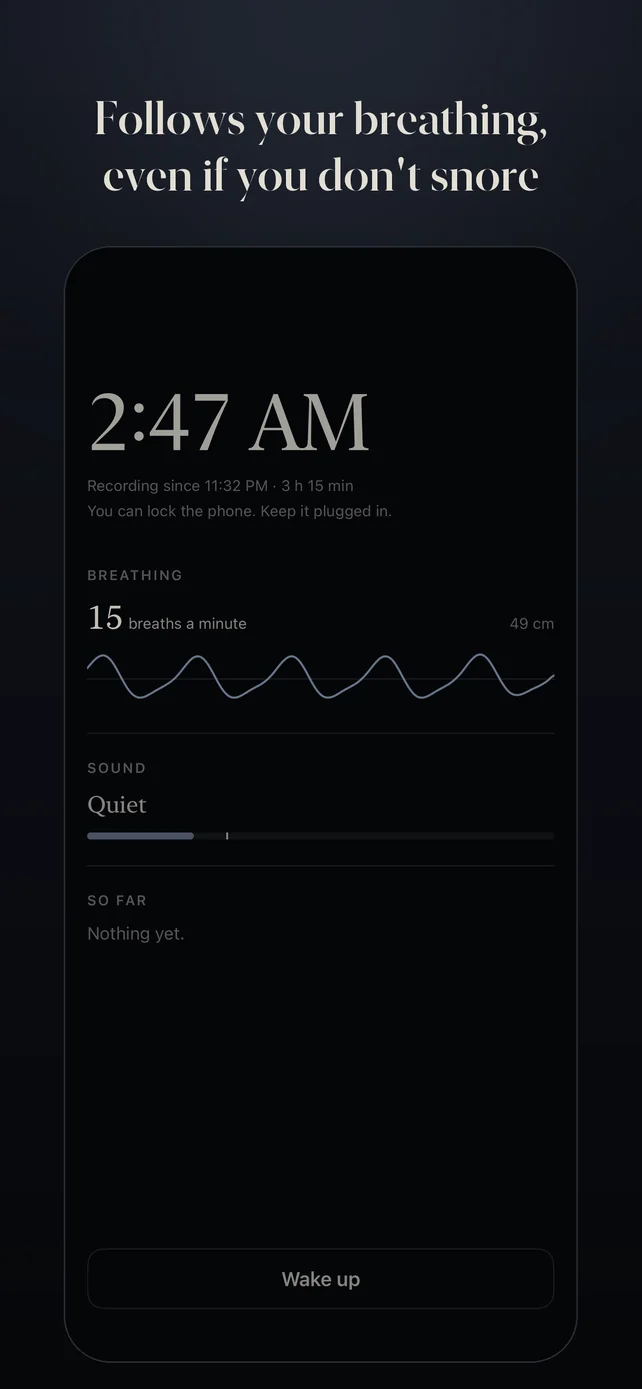
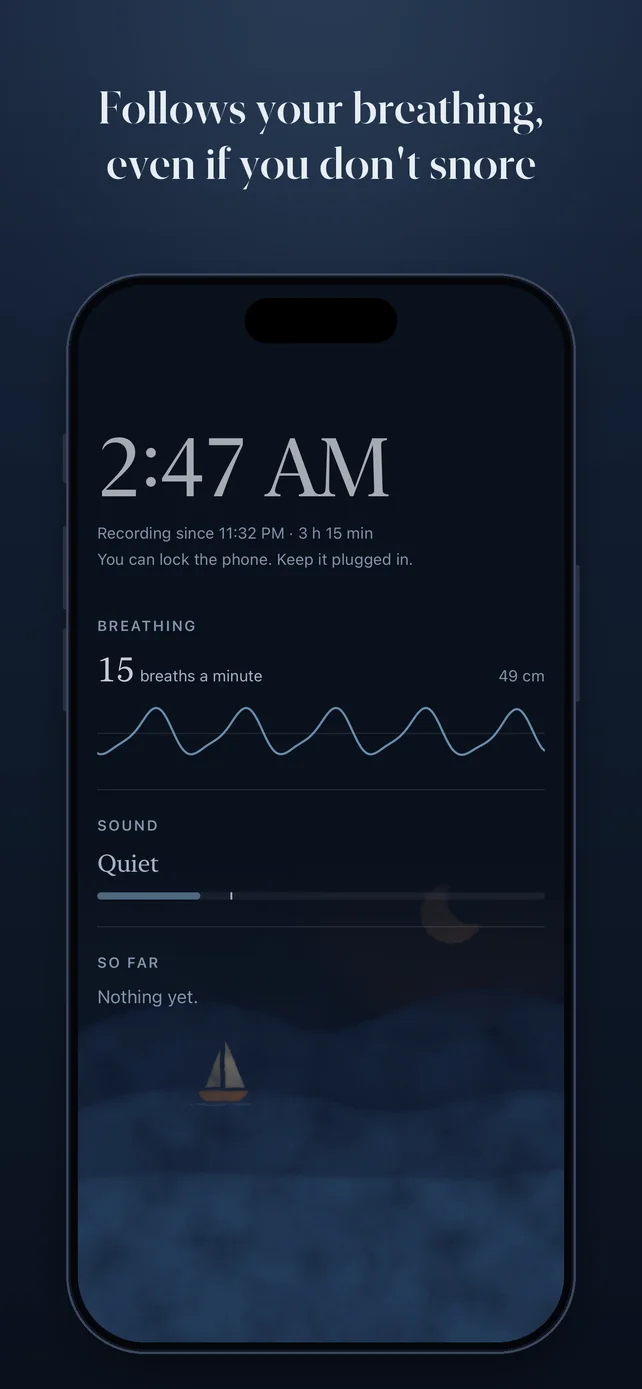
Sleep Sonar: new screenshots and iPhone Duo screens in the watercolor design; Sleep Sonar Plus replaces the tips
The seven slides and the four Duo screens come from the paper-night redesign. The animated
versions of the old slides are removed until new ones are made. The page, FAQ and privacy
policy now describe Sleep Sonar Plus: free for the last seven nights, a one-time purchase
opens every night.

diff --git a/sleepsonar/index.html b/sleepsonar/index.html
@@ -46,12 +46,14 @@
    ],
    "featureList": [
     "How much you snore",
+    "When you slept",
     "Hear it back",
     "Breathing by sonar",
     "Restless or asleep",
     "Apple Health, if you want",
     "Breathing pauses",
     "A placement check",
+    "Free for a week of nights",
     "A bedside clock on iPhone Duo"
    ],
    "offers": {
@@ -77,6 +79,14 @@
      "acceptedAnswer": {
       "@type": "Answer",
       "text": "<p>Yes. Put the phone on the nightstand and start the night. Sleep Sonar listens all night and keeps a short clip of each snore, each bit of sleep talk and each cough, with the time it happened. In the morning you see how long you snored and can play the clips. Sleep Sonar is coming soon to the App Store.<\/p>"
+     }
+    },
+    {
+     "@type": "Question",
+     "name": "Is Sleep Sonar free?",
+     "acceptedAnswer": {
+      "@type": "Answer",
+      "text": "<p>Yes. Sleep Sonar is free and keeps your last seven nights open. Sleep Sonar Plus, a one-time purchase, opens every night you record, with its report and its clips. Nights older than a week stay on your iPhone until you delete them, so Plus also opens the ones you recorded before buying it. There is no subscription.<\/p>"
      }
     },
     {
@@ -132,7 +142,7 @@
      "name": "Does Sleep Sonar upload anything?",
      "acceptedAnswer": {
       "@type": "Answer",
-      "text": "<p>No. Its only connection is the App Store, which shows the prices of the optional tips. The sonar, the sound recognition and every report run on your iPhone, and deleting the app deletes everything it saved. <a href=\"https://cistrondev.github.io/sleepsonar/privacy/\">Privacy policy<\/a>.<\/p>"
+      "text": "<p>No. Its only connection is the App Store, for the optional Sleep Sonar Plus purchase. The sonar, the sound recognition and every report run on your iPhone, and deleting the app deletes everything it saved. <a href=\"https://cistrondev.github.io/sleepsonar/privacy/\">Privacy policy<\/a>.<\/p>"
      }
     }
    ]
@@ -175,13 +185,13 @@
 
     <section class="gallery" data-gallery aria-label="Screenshots">
       <ul class="gallery-track" tabindex="0">
-          <li><img src="../assets/img/sleepsonar/01.webp?v=9b604f78" width="642" height="1389" alt="A night&#x27;s report: 76 minutes of snoring, 3 sleep-talk moments, 15 breaths a minute, and the night&#x27;s timeline." loading="eager" decoding="async"></li>
-          <li><img src="../assets/img/sleepsonar/02.webp?v=707923cd" width="642" height="1389" alt="The Privacy page: on the phone, no cloud, no analytics, no account." loading="eager" decoding="async"></li>
-          <li><picture><source srcset="../assets/img/sleepsonar/03-anim.webp?v=afa946dd" type="image/webp" media="(prefers-reduced-motion: no-preference)"><img src="../assets/img/sleepsonar/03.webp?v=8b021be2" width="642" height="1389" alt="The night screen at 2:47 AM: 15 breaths a minute at 49 cm, and the breathing wave." loading="eager" decoding="async"></picture></li>
-          <li><img src="../assets/img/sleepsonar/04.webp?v=588dde37" width="642" height="1389" alt="The list of sounds, each with a play button: sleep talk, snoring, a cough, a door slam." loading="lazy" decoding="async"></li>
-          <li><picture><source srcset="../assets/img/sleepsonar/05-anim.webp?v=31158b8a" type="image/webp" media="(prefers-reduced-motion: no-preference)"><img src="../assets/img/sleepsonar/05.webp?v=421a437d" width="642" height="1389" alt="The night&#x27;s timeline while dragging: 2:54 AM, 15 breaths a minute, snoring for 26 minutes." loading="lazy" decoding="async"></picture></li>
-          <li><picture><source srcset="../assets/img/sleepsonar/06-anim.webp?v=29401059" type="image/webp" media="(prefers-reduced-motion: no-preference)"><img src="../assets/img/sleepsonar/06.webp?v=393d24e1" width="642" height="1389" alt="The placement check: found you at 49 cm, 15 breaths a minute, good placement." loading="lazy" decoding="async"></picture></li>
-          <li><picture><source srcset="../assets/img/sleepsonar/07-anim.webp?v=b470b9f3" type="image/webp" media="(prefers-reduced-motion: no-preference)"><img src="../assets/img/sleepsonar/07.webp?v=86292ffa" width="642" height="1389" alt="How the sonar works: the phone sends a sweep toward your chest and reads the echo." loading="lazy" decoding="async"></picture></li>
+          <li><img src="../assets/img/sleepsonar/01.webp?v=785ec351" width="642" height="1389" alt="A night&#x27;s report under a painted sunrise: 31 minutes of snoring, 3 sleep-talk moments, 15 breaths a minute, 7 h 18 min asleep." loading="eager" decoding="async"></li>
+          <li><img src="../assets/img/sleepsonar/02.webp?v=6543f391" width="642" height="1389" alt="The home screen under a painted moon and sailboat, with last night: fell asleep at 11:26 PM, woke up at 6:44 AM, 7 h 18 min asleep." loading="eager" decoding="async"></li>
+          <li><img src="../assets/img/sleepsonar/03.webp?v=d97ed3d8" width="642" height="1389" alt="The night screen at 2:47 AM: 15 breaths a minute at 49 cm, and the breathing wave." loading="eager" decoding="async"></li>
+          <li><img src="../assets/img/sleepsonar/04.webp?v=b92ec40d" width="642" height="1389" alt="The list of sounds, each with a play button: sleep talk, snoring, a cough, a door slam." loading="lazy" decoding="async"></li>
+          <li><img src="../assets/img/sleepsonar/05.webp?v=eca92d0f" width="642" height="1389" alt="The last seven nights: usually fell asleep at 11:30 PM and woke up at 6:12 AM, 6 h 52 min asleep and 22 minutes of snoring a night." loading="lazy" decoding="async"></li>
+          <li><img src="../assets/img/sleepsonar/06.webp?v=bcbcbdf3" width="642" height="1389" alt="The night&#x27;s timeline while dragging: 2:45 AM, 16 breaths a minute, snoring for 10 minutes." loading="lazy" decoding="async"></li>
+          <li><img src="../assets/img/sleepsonar/07.webp?v=012d13f3" width="642" height="1389" alt="The placement check: found you at 49 cm, 15 breaths a minute, good placement." loading="lazy" decoding="async"></li>
       </ul>
       <div class="gallery-controls">
         <div class="gallery-paddles">
@@ -195,22 +205,22 @@
         <ul class="duo-track">
           <li>
             <figure>
-              <div class="duo-tent"><div class="duo-screen duo-screen-tent"><picture><source srcset="../assets/img/sleepsonar/duo/tent-anim.webp?v=462e425a" type="image/webp" media="(prefers-reduced-motion: no-preference)"><img src="../assets/img/sleepsonar/duo/tent-light.webp?v=258f6e82" data-light="../assets/img/sleepsonar/duo/tent-light.webp?v=258f6e82" data-dark="../assets/img/sleepsonar/duo/tent-light.webp?v=258f6e82" width="1017" height="699" alt="Sleep Sonar on an iPhone Duo standing in a tent on the nightstand: a large dim clock reading 2:47 AM on the cover screen, with &#x27;15 breaths a minute · Quiet&#x27; under it." loading="lazy" decoding="async"></picture><span class="duo-camera duo-camera-tent"></span></div></div>
+              <div class="duo-tent"><div class="duo-screen duo-screen-tent"><img src="../assets/img/sleepsonar/duo/tent-light.webp?v=0d926e04" data-light="../assets/img/sleepsonar/duo/tent-light.webp?v=0d926e04" data-dark="../assets/img/sleepsonar/duo/tent-light.webp?v=0d926e04" width="1017" height="699" alt="Sleep Sonar on an iPhone Duo standing in a tent on the nightstand: a large dim clock reading 2:47 AM on the cover screen, with &#x27;15 breaths a minute · Quiet&#x27; under it." loading="lazy" decoding="async"><span class="duo-camera duo-camera-tent"></span></div></div>
               <figcaption><strong>Standing</strong> Folded into a tent, the cover screen shows a large, dim clock with your breathing rate under it. Tap the clock to dim it further.</figcaption>
             </figure>
           </li>
           <li>
             <figure>
               <div class="duo-book">
-                <div class="duo-half duo-half-left"><picture><source srcset="../assets/img/sleepsonar/duo/book-anim.webp?v=1c3371b3" type="image/webp" media="(prefers-reduced-motion: no-preference)"><img src="../assets/img/sleepsonar/duo/book-light.webp?v=110b5145" data-light="../assets/img/sleepsonar/duo/book-light.webp?v=110b5145" data-dark="../assets/img/sleepsonar/duo/book-light.webp?v=110b5145" width="1427" height="1004" alt="Sleep Sonar on the half-open iPhone Duo: a large dim clock on the left page, the breathing wave and sound level on the right." loading="lazy" decoding="async"></picture></div>
-                <div class="duo-half duo-half-right"><picture><source srcset="../assets/img/sleepsonar/duo/book-anim.webp?v=1c3371b3" type="image/webp" media="(prefers-reduced-motion: no-preference)"><img src="../assets/img/sleepsonar/duo/book-light.webp?v=110b5145" data-light="../assets/img/sleepsonar/duo/book-light.webp?v=110b5145" data-dark="../assets/img/sleepsonar/duo/book-light.webp?v=110b5145" width="1427" height="1004" alt="" loading="lazy" decoding="async"></picture></div>
+                <div class="duo-half duo-half-left"><img src="../assets/img/sleepsonar/duo/book-light.webp?v=29fbc0e2" data-light="../assets/img/sleepsonar/duo/book-light.webp?v=29fbc0e2" data-dark="../assets/img/sleepsonar/duo/book-light.webp?v=29fbc0e2" width="1427" height="1004" alt="Sleep Sonar on the half-open iPhone Duo: a large dim clock on the left page, the breathing wave and sound level on the right." loading="lazy" decoding="async"></div>
+                <div class="duo-half duo-half-right"><img src="../assets/img/sleepsonar/duo/book-light.webp?v=29fbc0e2" data-light="../assets/img/sleepsonar/duo/book-light.webp?v=29fbc0e2" data-dark="../assets/img/sleepsonar/duo/book-light.webp?v=29fbc0e2" width="1427" height="1004" alt="" loading="lazy" decoding="async"></div>
               </div>
               <figcaption><strong>Half open</strong> A dim clock on one page, your breathing and the night&#x27;s sounds on the other.</figcaption>
             </figure>
           </li>
           <li>
             <figure>
-              <div class="duo-flat"><picture><source srcset="../assets/img/sleepsonar/duo/report-anim.webp?v=6c645f8a" type="image/webp" media="(prefers-reduced-motion: no-preference)"><img src="../assets/img/sleepsonar/duo/report-light.webp?v=7b7bfc9a" data-light="../assets/img/sleepsonar/duo/report-light.webp?v=7b7bfc9a" data-dark="../assets/img/sleepsonar/duo/report-light.webp?v=7b7bfc9a" width="1427" height="1004" alt="Sleep Sonar&#x27;s night report on the open iPhone Duo: 76 minutes of snoring, 3 sleep-talk moments, 15 breaths a minute, and the night&#x27;s timeline." loading="lazy" decoding="async"></picture></div>
+              <div class="duo-flat"><img src="../assets/img/sleepsonar/duo/report-light.webp?v=18737af6" data-light="../assets/img/sleepsonar/duo/report-light.webp?v=18737af6" data-dark="../assets/img/sleepsonar/duo/report-light.webp?v=18737af6" width="1427" height="1004" alt="Sleep Sonar&#x27;s night report on the open iPhone Duo, under a painted sunrise: 31 minutes of snoring, 3 sleep-talk moments, 15 breaths a minute, and the night&#x27;s timeline." loading="lazy" decoding="async"></div>
               <figcaption><strong>Open</strong> In the morning, the whole night on one page.</figcaption>
             </figure>
           </li>
@@ -232,12 +242,14 @@
     <section class="features">
       <ul>
         <li><h3>How much you snore</h3><p>Every night&#x27;s report shows the minutes of snoring, the number of sleep-talk moments and the sounds in between, on one timeline. Drag a finger across it to see any moment.</p></li>
+        <li><h3>When you slept</h3><p>The home screen shows when you fell asleep and woke up, how long you slept and how much you snored, with a summary of your last seven nights.</p></li>
         <li><h3>Hear it back</h3><p>Each snore, each bit of sleep talk and each cough is kept as a short clip, from three seconds before to two seconds after, so you can play it in the morning.</p></li>
         <li><h3>Breathing by sonar</h3><p>The phone plays a sweep between 18 and 20 kHz, above what adults can hear, and reads its echo from your chest. That gives your breathing rate all night, whether or not you snore.</p></li>
         <li><h3>Restless or asleep</h3><p>The sonar also sees when you turn over or get up, so the report shows your restless minutes and an estimate of how long you slept.</p></li>
         <li><h3>Apple Health, if you want</h3><p>Turn on Save to Apple Health and each night&#x27;s time in bed, sleep estimate and breathing rate go into the Health app on your iPhone. The app never reads anything from Health.</p></li>
         <li><h3>Breathing pauses</h3><p>Stretches of ten seconds or more without a breath while you lie still are listed for your information. Sleep Sonar is not a medical device and does not diagnose sleep apnea.</p></li>
         <li><h3>A placement check</h3><p>Lie down and breathe for 15 seconds: the app says whether it can find your breathing, how far away you are, and what to change if not.</p></li>
+        <li><h3>Free for a week of nights</h3><p>Sleep Sonar keeps your last seven nights for free. Sleep Sonar Plus, a one-time purchase, opens every night you record. There is no subscription.</p></li>
         <li><h3>A bedside clock on iPhone Duo</h3><p>Stand the phone half open on the nightstand. Folded into a tent, the cover screen becomes a large, dim clock with your breathing rate under it; set like a laptop, the clock takes the upright half and the night&#x27;s details the flat half. The screen stays on, the clock drifts a little each minute to spare the display, and a tap dims it further.</p></li>
       </ul>
     </section>
@@ -249,6 +261,12 @@
           <h3>Can my iPhone tell me whether I snore?</h3>
           <div class="faq-answer">
             <p>Yes. Put the phone on the nightstand and start the night. Sleep Sonar listens all night and keeps a short clip of each snore, each bit of sleep talk and each cough, with the time it happened. In the morning you see how long you snored and can play the clips. Sleep Sonar is coming soon to the App Store.</p>
+          </div>
+        </div>
+        <div class="faq-item">
+          <h3>Is Sleep Sonar free?</h3>
+          <div class="faq-answer">
+            <p>Yes. Sleep Sonar is free and keeps your last seven nights open. Sleep Sonar Plus, a one-time purchase, opens every night you record, with its report and its clips. Nights older than a week stay on your iPhone until you delete them, so Plus also opens the ones you recorded before buying it. There is no subscription.</p>
           </div>
         </div>
         <div class="faq-item">
@@ -290,7 +308,7 @@
         <div class="faq-item">
           <h3>Does Sleep Sonar upload anything?</h3>
           <div class="faq-answer">
-            <p>No. Its only connection is the App Store, which shows the prices of the optional tips. The sonar, the sound recognition and every report run on your iPhone, and deleting the app deletes everything it saved. <a href="../sleepsonar/privacy/">Privacy policy</a>.</p>
+            <p>No. Its only connection is the App Store, for the optional Sleep Sonar Plus purchase. The sonar, the sound recognition and every report run on your iPhone, and deleting the app deletes everything it saved. <a href="../sleepsonar/privacy/">Privacy policy</a>.</p>
           </div>
         </div>
       </div>

diff --git a/sleepsonar/privacy/index.html b/sleepsonar/privacy/index.html
@@ -4,7 +4,7 @@
   <meta charset="utf-8">
   <meta name="viewport" content="width=device-width, initial-scale=1">
   <title>Sleep Sonar Privacy Policy</title>
-  <meta name="description" content="How Sleep Sonar handles your information: Nothing about you. The App Store loads the prices of the optional tips.">
+  <meta name="description" content="How Sleep Sonar handles your information: Nothing about you. The App Store shows the price of Sleep Sonar Plus and handles the purchase.">
   <meta name="theme-color" content="#ffffff">
   <meta name="google-site-verification" content="0HO-cftcZWuRyvlFjb1OlFsgFgWXaGyS6AsLK70I34Q">
   <meta name="toolradar-verify" content="toolradar-verify-rOrqezKzteNECKs2sFwvBf">
@@ -13,7 +13,7 @@
   <link rel="icon" type="image/png" sizes="48x48" href="../../assets/favicon-48.png?v=98163ec7">
   <link rel="apple-touch-icon" href="../../assets/apple-touch-icon.png?v=97c86b02">
   <meta property="og:title" content="Sleep Sonar Privacy Policy">
-  <meta property="og:description" content="How Sleep Sonar handles your information: Nothing about you. The App Store loads the prices of the optional tips.">
+  <meta property="og:description" content="How Sleep Sonar handles your information: Nothing about you. The App Store shows the price of Sleep Sonar Plus and handles the purchase.">
   <link rel="stylesheet" href="../../assets/site.css?v=e253631e">
   <link rel="canonical" href="https://cistrondev.github.io/sleepsonar/privacy/">
   <meta property="og:url" content="https://cistrondev.github.io/sleepsonar/privacy/">
@@ -43,10 +43,10 @@
     <article class="policy">
       <p class="eyebrow"><a href="../">Sleep Sonar</a></p>
       <h1>Privacy Policy</h1>
-      <p class="policy-date">Last updated: 1 November 2026</p>
+      <p class="policy-date">Last updated: 5 November 2026</p>
 <p>Sleep Sonar ("the app") records your night on your iPhone: it listens for snoring and sleep talk, and follows your breathing with an inaudible sonar. This policy explains, in plain language, what the app does and does not do with your information.</p>
 <h2>The short version</h2>
-<p><strong>Sleep Sonar does not collect, store, transmit, or share any personal data.</strong> There are no accounts, no servers, no analytics, no advertising, and no tracking. Everything the app hears is analysed on your iPhone, and everything it keeps stays on your iPhone. The app's only connection is Apple's App Store, for the optional tips (see "Tips" below).</p>
+<p><strong>Sleep Sonar does not collect, store, transmit, or share any personal data.</strong> There are no accounts, no servers, no analytics, no advertising, and no tracking. Everything the app hears is analysed on your iPhone, and everything it keeps stays on your iPhone. The app's only connection is Apple's App Store, for the optional Sleep Sonar Plus purchase (see "Sleep Sonar Plus" below).</p>
 <h2>The microphone</h2>
 <p>With your permission, the app uses the microphone <strong>only while a night or a placement check is running</strong>. iOS shows the microphone indicator then. The microphone serves two purposes:</p>
 <ul><li>it listens for snoring, sleep talk, coughs and other sounds, which Apple's built-in sound classifier labels on the phone;</li><li>it hears the echo of the app's sonar: a sweep between 18 and 20 kHz, above what adults can hear, played from the phone's earpiece (the speaker above the screen). The echo from your chest shows your breathing and your movement. The sonar can be turned off.</li></ul>
@@ -63,8 +63,8 @@
 <p>The app never reads anything from Apple Health. Health data is never used for advertising or marketing, and is never shared with anyone.</p>
 <h2>Ratings and email</h2>
 <p>Now and then the app may ask you to rate it, using Apple's standard rating prompt; Apple handles any rating you give. <strong>Rate Sleep Sonar</strong> opens the App Store, and <strong>Email the developer</strong> opens a new message in your mail app with the app and iOS version filled in. The app itself sends nothing: an email reaches the developer only if you send it.</p>
-<h2>Tips</h2>
-<p>Sleep Sonar is free. It offers three optional tips, which are in-app purchases. A tip unlocks nothing. To show their prices and to take a payment, the app uses Apple's App Store. Apple processes the payment; the developer never receives your name, payment details or Apple Account. The app keeps no record of your tips. Apple's privacy policy covers the purchase itself.</p>
+<h2>Sleep Sonar Plus</h2>
+<p>Sleep Sonar is free and opens your last seven nights. Sleep Sonar Plus is an optional one-time in-app purchase that opens every night you record. To show its price, to take the payment and to restore it on another iPhone, the app uses Apple's App Store. Apple processes the payment; the developer never receives your name, payment details or Apple Account. The app keeps one setting on your iPhone that says whether Plus is unlocked. Apple's privacy policy covers the purchase itself.</p>
 <h2>Analytics, advertising, and tracking</h2>
 <p>The app contains <strong>no analytics, no advertising, and no tracking</strong> of any kind. It does not use the Advertising Identifier (IDFA), does not include any analytics or advertising SDKs, and does not follow you across other apps or websites.</p>
 <h2>Data retention and deletion</h2>

diff --git a/index.html b/index.html
@@ -260,7 +260,7 @@
           <a class="pill" href="sleepsonar/">Learn more</a>
           <span class="pill pill-soon">Coming soon</span>
         </p>
-        <div class="tile-shots"><img src="assets/img/sleepsonar/01.webp?v=9b604f78" width="642" height="1389" alt="" loading="lazy" decoding="async"><img src="assets/img/sleepsonar/02.webp?v=707923cd" width="642" height="1389" alt="" loading="lazy" decoding="async"><img src="assets/img/sleepsonar/03.webp?v=8b021be2" width="642" height="1389" alt="" loading="lazy" decoding="async"></div>
+        <div class="tile-shots"><img src="assets/img/sleepsonar/01.webp?v=785ec351" width="642" height="1389" alt="" loading="lazy" decoding="async"><img src="assets/img/sleepsonar/02.webp?v=6543f391" width="642" height="1389" alt="" loading="lazy" decoding="async"><img src="assets/img/sleepsonar/03.webp?v=d97ed3d8" width="642" height="1389" alt="" loading="lazy" decoding="async"></div>
       </article>
       </div>
     </section>

diff --git a/privacy/index.html b/privacy/index.html
@@ -135,7 +135,7 @@
             <img class="app-icon" src="../assets/img/sleepsonar/icon.png?v=61c62aef" width="256" height="256" alt="">
             <span class="policy-row-text">
               <strong>Sleep Sonar</strong>
-              <span>Nothing about you. The App Store loads the prices of the optional tips.</span>
+              <span>Nothing about you. The App Store shows the price of Sleep Sonar Plus and handles the purchase.</span>
             </span>
             <span class="policy-row-link">Privacy policy</span>
           </a>

diff --git a/build.py b/build.py
@@ -766,7 +766,7 @@ APPS = [
         "id": "",
         "live": False,
         "tagline": "Your snoring, sleep talk and breathing, recorded from the nightstand.",
-        "pricing": "Free",
+        "pricing": "Free · One-time unlock",
         "intro": (
             "Sleep Sonar records your night from the nightstand. It listens for snoring and sleep talk, and "
             "follows your breathing with a sonar you can't hear, even if you make no sound.",
@@ -777,6 +777,9 @@ APPS = [
             ("How much you snore",
              "Every night's report shows the minutes of snoring, the number of sleep-talk moments and the "
              "sounds in between, on one timeline. Drag a finger across it to see any moment."),
+            ("When you slept",
+             "The home screen shows when you fell asleep and woke up, how long you slept and how much you "
+             "snored, with a summary of your last seven nights."),
             ("Hear it back",
              "Each snore, each bit of sleep talk and each cough is kept as a short clip, from three seconds "
              "before to two seconds after, so you can play it in the morning."),
@@ -795,6 +798,9 @@ APPS = [
             ("A placement check",
              "Lie down and breathe for 15 seconds: the app says whether it can find your breathing, how far "
              "away you are, and what to change if not."),
+            ("Free for a week of nights",
+             "Sleep Sonar keeps your last seven nights for free. Sleep Sonar Plus, a one-time purchase, opens "
+             "every night you record. There is no subscription."),
             ("A bedside clock on iPhone Duo",
              "Stand the phone half open on the nightstand. Folded into a tent, the cover screen becomes a large, "
              "dim clock with your breathing rate under it; set like a laptop, the clock takes the upright half "
@@ -825,8 +831,8 @@ APPS = [
                  "sound level on the right."),
                 ("flat", "report", "Open",
                  "In the morning, the whole night on one page.",
-                 "Sleep Sonar's night report on the open iPhone Duo: 76 minutes of snoring, 3 sleep-talk moments, "
-                 "15 breaths a minute, and the night's timeline."),
+                 "Sleep Sonar's night report on the open iPhone Duo, under a painted sunrise: 31 minutes of "
+                 "snoring, 3 sleep-talk moments, 15 breaths a minute, and the night's timeline."),
             ],
         },
         "privacy_title": "Nothing leaves your iPhone.",
@@ -837,19 +843,22 @@ APPS = [
             "Apple Health gets a night only if you turn that on, and the app reads nothing from it.",
             "Delete a night to delete its clips; deleting the app deletes everything.",
         ],
-        "network": "Nothing about you. The App Store loads the prices of the optional tips.",
+        "network": "Nothing about you. The App Store shows the price of Sleep Sonar Plus and handles the purchase.",
         "note": "",
         "tile": [1, 2, 3],
         "languages": ["en"],
         "category": "HealthApplication",   # schema.org applicationCategory
         "shots": [
-            "A night's report: 76 minutes of snoring, 3 sleep-talk moments, 15 breaths a minute, and the night's timeline.",
-            "The Privacy page: on the phone, no cloud, no analytics, no account.",
+            "A night's report under a painted sunrise: 31 minutes of snoring, 3 sleep-talk moments, 15 breaths a "
+            "minute, 7 h 18 min asleep.",
+            "The home screen under a painted moon and sailboat, with last night: fell asleep at 11:26 PM, woke up at "
+            "6:44 AM, 7 h 18 min asleep.",
             "The night screen at 2:47 AM: 15 breaths a minute at 49 cm, and the breathing wave.",
             "The list of sounds, each with a play button: sleep talk, snoring, a cough, a door slam.",
-            "The night's timeline while dragging: 2:54 AM, 15 breaths a minute, snoring for 26 minutes.",
+            "The last seven nights: usually fell asleep at 11:30 PM and woke up at 6:12 AM, 6 h 52 min asleep and "
+            "22 minutes of snoring a night.",
+            "The night's timeline while dragging: 2:45 AM, 16 breaths a minute, snoring for 10 minutes.",
             "The placement check: found you at 49 cm, 15 breaths a minute, good placement.",
-            "How the sonar works: the phone sends a sweep toward your chest and reads the echo.",
         ],
     },
 ]

diff --git a/content/sleepsonar/en.py b/content/sleepsonar/en.py
@@ -2,7 +2,7 @@
 #
 # Same keys as content/atlas/en.py: the FAQ only (no guide yet; the app isn't released). English page copy stays in
 # APPS. Facts to keep true: microphone on only during a night or a placement check; only short clips are kept
-# (3 s before to 2 s after a sound, 45 s at most); the sonar is an 18-20 kHz sweep; only network use is the App Store for tip prices; not a
+# (3 s before to 2 s after a sound, 45 s at most); the sonar is an 18-20 kHz sweep; only network use is the App Store for the Sleep Sonar Plus purchase; not a
 # medical device; breathing pauses are informational.
 
 L = {
@@ -14,6 +14,12 @@ L = {
             "Yes. Put the phone on the nightstand and start the night. Sleep Sonar listens all night and keeps a "
             "short clip of each snore, each bit of sleep talk and each cough, with the time it happened. In the "
             "morning you see how long you snored and can play the clips. Sleep Sonar is coming soon to the App Store.",
+        ]),
+        ("Is Sleep Sonar free?", [
+            "Yes. Sleep Sonar is free and keeps your last seven nights open. Sleep Sonar Plus, a one-time purchase, "
+            "opens every night you record, with its report and its clips. Nights older than a week stay on your "
+            "iPhone until you delete them, so Plus also opens the ones you recorded before buying it. There is no "
+            "subscription.",
         ]),
         ("Does it work if I don't snore?", [
             "Yes. Besides listening, the phone plays a sweep between 18 and 20 kHz, too high for adults to hear, and "
@@ -46,7 +52,7 @@ L = {
             "see many pauses on most nights, or someone has noticed you stop breathing in your sleep, talk to a doctor.",
         ]),
         ("Does Sleep Sonar upload anything?", [
-            "No. Its only connection is the App Store, which shows the prices of the optional tips. The sonar, the sound "
+            "No. Its only connection is the App Store, for the optional Sleep Sonar Plus purchase. The sonar, the sound "
             "recognition and every report run on "
             "your iPhone, and deleting the app deletes everything it saved. [Privacy policy](privacy).",
         ]),

diff --git a/content/privacy/sleepsonar.md b/content/privacy/sleepsonar.md
@@ -1,6 +1,6 @@
 # Privacy Policy for Sleep Sonar
 
-**Last updated: 1 November 2026**
+**Last updated: 5 November 2026**
 
 Sleep Sonar ("the app") records your night on your iPhone: it listens for snoring and sleep talk, and follows your
 breathing with an inaudible sonar. This policy explains, in plain language, what the app does and does not do with
@@ -10,8 +10,8 @@ your information.
 
 **Sleep Sonar does not collect, store, transmit, or share any personal data.** There are no accounts, no servers, no
 analytics, no advertising, and no tracking. Everything the app hears is analysed on your iPhone, and everything it
-keeps stays on your iPhone. The app's only connection is Apple's App Store, for the optional tips (see "Tips"
-below).
+keeps stays on your iPhone. The app's only connection is Apple's App Store, for the optional Sleep Sonar Plus
+purchase (see "Sleep Sonar Plus" below).
 
 ## The microphone
 
@@ -69,11 +69,12 @@ Now and then the app may ask you to rate it, using Apple's standard rating promp
 **Rate Sleep Sonar** opens the App Store, and **Email the developer** opens a new message in your mail app with the
 app and iOS version filled in. The app itself sends nothing: an email reaches the developer only if you send it.
 
-## Tips
+## Sleep Sonar Plus
 
-Sleep Sonar is free. It offers three optional tips, which are in-app purchases. A tip unlocks nothing. To show their
-prices and to take a payment, the app uses Apple's App Store. Apple processes the payment; the developer never
-receives your name, payment details or Apple Account. The app keeps no record of your tips. Apple's privacy policy
+Sleep Sonar is free and opens your last seven nights. Sleep Sonar Plus is an optional one-time in-app purchase that
+opens every night you record. To show its price, to take the payment and to restore it on another iPhone, the app
+uses Apple's App Store. Apple processes the payment; the developer never receives your name, payment details or
+Apple Account. The app keeps one setting on your iPhone that says whether Plus is unlocked. Apple's privacy policy
 covers the purchase itself.
 
 ## Analytics, advertising, and tracking
